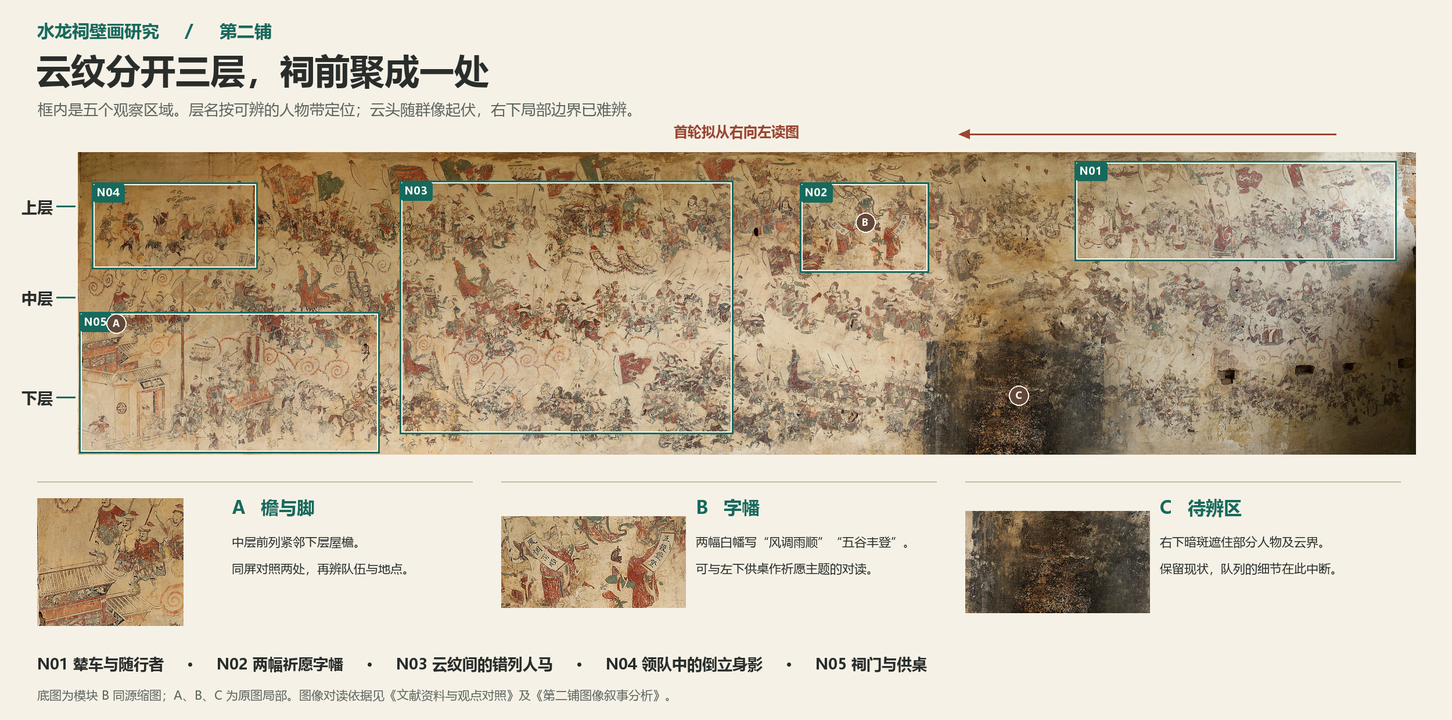
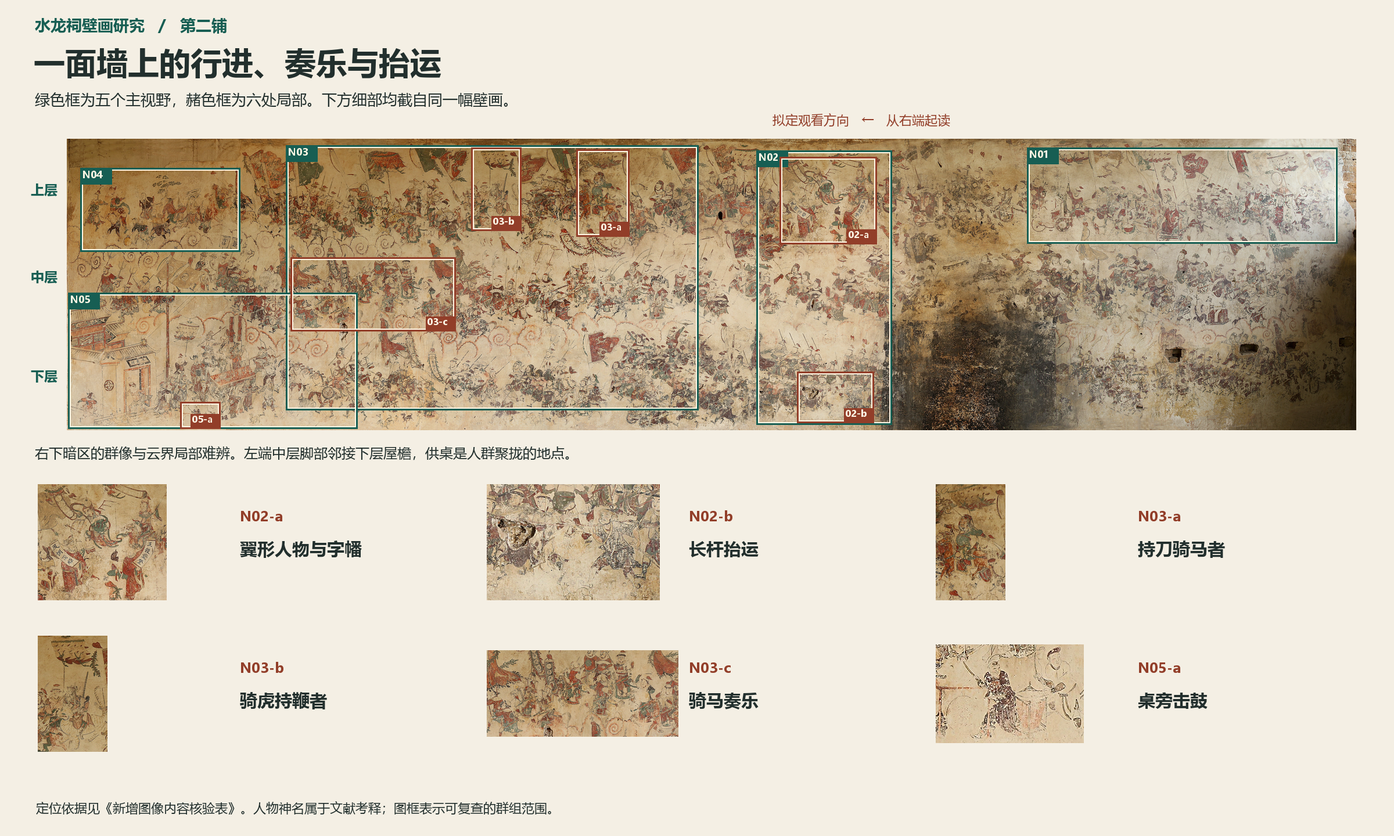
docs: 核对第二铺群像并修订循迹局部取景

diff --git a/docs/research/mural-02-narrative/06_新增图像内容核验表.md b/docs/research/mural-02-narrative/06_新增图像内容核验表.md
@@ -1,0 +1,35 @@
+# 第二铺群像核验｜从论文局部回到壁画
+
+坐标基准为模块B的8192 × 1853全幅，左上为原点。先用论文照片中的持物、坐骑、衣褶及周围残损形状在WebP中找候选区域，再按两边图像尺寸比例裁取17507 × 3960母版复看。尤其核对了骑虎者的前足与尾部、持刀者的绿袖、乐队下缘的破损、抬运者前方的缺损和祠前鼓形。框边是便于观察的取景界限。长杆抬运采用程文图2-18及郑文图3-37两项匹配结果的外扩框。区位与身份分别列级。[完整标注](03_图像组织.png) · [坐标](04_叙事节点坐标.json)
+
+## 证据与采用判断
+
+| 群组、图像位置（像素左上—右下） | 直接观察 | 原文解释、比较及限制 | 证据等级与用途 |
+|---|---|---|---|
+| N02-a 上层翼形人物与字幡，4528,114—5145,669 | 双翼轮廓与两幅白幡同框，可辨两处祈愿词 | 邓昶[1]第116–117页图1标雷公。林妙璇[2]第14页亦定位于两幡之间。彭迪等[7]第116页进一步联系祈雨及门侧形象 | 形态和位置已确认；神名属文献考释；两处同一人跨时出现待核实。次级观察，提示文字如何为形象提供语境 |
+| N02-b 下层长杆抬运，4640,1480—5125,1805 | 悬吊兽身、横杆及后方负重者可辨，前方颜料残缺；紧邻步骑队伍 | 林[2]第15页用“民众”、记两人，第41页称“抬鹿人”，以衣着及斗笠比对平民形象。郑[3]第119页图3-37不定种，编号B310、说明前方难辨。程[4]第26页图2-18为第二铺局部自摄。发现报告[6]第20页则泛称军队抬牲口 | 抬运位置已确认；两人及身份是文献识读，职业与种属待核。次级观察，说明队列内不同人的分工 |
+| N03-a 上层持刀骑马者，3238,66—3572,621 | 绿袍、红面、执长兵、跨马，与周边人物同向 | 邓[1]第116–117页图1指认为关帝；杨、刘[5]第112–114页图3称关公；郑[3]第103页称关元帅B50；林[2]第48–49页对照关公图式。同一人物的神格称谓有别。发现报告[6]第19页谈的是殿内塑像，第20页才谈画中人物 | 图版与本图位置已确认；神名为多文献图像考释，未见可核姓名题记。次级观察，扩展阅读可用“文献辨为关公” |
+| N03-b 上层骑虎者，2569,55—2886,583 | 旗盖下的骑者、上举持物及有条纹的坐骑；虎的轮廓与周围马匹不同 | 邓[1]第116–117页图1据战袍、须、鞭和虎辨为赵公明；杨、刘[5]第112–113页图2用传统赵公明描述比对。林[2]第48–49页联系赵元帅、赵玄坛诸称。郑[3]第101页同组选用骑虎将军的描述，未构成另一实名指认 | 区位与坐骑已确认；神名属有依据的考释。次级观察，与N03-a比较队列如何突出骑者；不由神职推出当天祈财 |
+| N03-c 中层前列骑马奏乐，1421,751—2469,1223 | 横持号状物、举臂击奏、圆形乐器、马头和伴随者同在一列，组下方有缺损 | 林[2]第14页列长短号、锣、镲，第34页说乐器兵靠前、引领队伍。程[4]第26页图2-19以兵服、佩械判断随军仪仗；图2-20是第一铺。郑[3]第110页图3-27为分组线描。发现报告[6]第20页的锣鼓唢呐是中层总体记录，不能逐件套在这组 | 骑马吹奏、击奏已确认；八名演奏者据郑的分组统计，细分器名依作者。次级观察，展示乐手与卫从共享队列，具体曲目和科仪环节待核 |
+| N05-a 左下桌旁击鼓，721,1672—976,1842 | 桌旁两个人物与鼓，站位集中，周边可见桌案及其他参与者 | 程[4]第26页图2-21称两位击鼓乐手，并由朝向、衣着解释为服务砍牛仪式；郑[3]第116页把两位乐师与供桌场面合读 | 区位、器物已确认；仪式分工为文献解释。次级观察，与N03-c比较同是奏乐，位置和参与方式有何差别 |
+| N05 左下祠前，主框8,977—1845,1842 | 牲畜靠近持刀与牵引人物，可见端盘者和桌案。与N02-b相距数个队列 | 龙明盛[8]第113页图1–2将持刀、牵绳与县志比较，指出横木细节的差别；郑[3]第115–117页按供桌周边与参加者分组 | 祠前和队尾为两个独立图像位置，已确认。两兽同一、先运到再宰祭的连续剧情待核。保留主节点 |
+| N01 右上车组，6100,55—8070,665；N04 左上前列，85,185—1100,715 | 车轮、旗盖、侍从突出乘者；前列俯身持锣与倒立者姿态有别 | 陈勤学[9]第115–117页从一组女性图像比对主神，不能套给各车。刘灿姣、杨会娟[10]第53–55页图2、4、5为倒立与持锣者提供比较图；与彭迪等[7]第115页的个别方位名有出入 | 两种组群方式已确认，领队实名依考释。维持两主节点，左上倒立者可衔接图鉴“翻坛张五郎”，其余名号逐人核对 |
+
+**乐队人数如何得到。** 郑富天图3-27的编号B148–159共十二位。作者逐人解释为四人吹长短号（B148–151），四人击鼓、锣、钹等（B154–157）；其余四人持刀或持伞。由其编号得出八名演奏者。三星锣、扁皮鼓等细名需保留作者归属。照片辨识到群体和演奏姿势的把握高于逐件辨器。
+
+**旗号如何使用。** 林妙璇第15页把“三军司令”旗写在下层骑兵的描述中。郑富天第110页在中层乐队写“三军号令”。两条材料分别指向不同层、不同字样；不能从“同层”推出旗就在抬杆旁。本次将其作为文字待逐字比对项，不另设局部框。祠前与下层后段的关联限于围绕祭祀的活动主题。
+
+## 对照来源
+
+1. 邓昶，2019，《湖南江永勾蓝瑶水龙祠壁画的“汉化”特征阐释——兼论瑶汉民族文化的互动及其调适机制》。
+2. 林妙璇，2022，《勾蓝瑶水龙祠壁画神祇图式与绘画表现研究》。正文14、15、34、41、48–49页分别对应PDF第24、25、44、51、58–59页。
+3. 郑富天，2024，《勾蓝瑶寨水龙祠壁画的图像叙事及其功能研究》。正文第110、119页分别对应PDF第118、127页。图3-27是作者编组绘图，非第二份实地摄影记录。
+4. 程旭蕊，2022，《江永勾蓝瑶水龙祠壁画艺术研究》。正文第26页为PDF第35页；同页两铺图像逐一按图题取用。
+5. 杨会娟、刘灿姣，2020，《形式与意义——湖南江永勾蓝瑶水龙祠壁画中的“官方宗教”图像研究》。
+6. 刘灿姣、林伟，2016，《湖南江永水龙祠壁画的发现报告》。
+7. 彭迪、黄佳、陈奕含、成文昊，2025，《湘南勾蓝瑶寨壁画空间叙事结构与数智化修复路径研究》。
+8. 龙明盛，2019，《图像记忆与族群认同——以瑶族水龙祠壁画砍牛图式为例》。
+9. 陈勤学，2021，《从水龙祠壁画看瑶族女神崇拜观的生成逻辑》。
+10. 刘灿姣、杨会娟，2017，《湖南江永勾蓝瑶水龙祠壁画的梅山猖兵考释》。
+
+最初的调查、后来论文的图式比对、编号线描各自回答不同问题。林文把图式与比较材料并列，郑文部分图注明参阅前人图录；本表对同一形象的重复命名保留来源，不将转引累加成确定性。全幅历史观看顺序和科仪全程，见[观点对照](01_文献资料与观点对照.md)。

diff --git a/docs/research/mural-02-narrative/04_叙事节点清单.md b/docs/research/mural-02-narrative/04_叙事节点清单.md
@@ -2,6 +2,10 @@
 
 五个选区各解决一个阅读问题：如何辨认一组人、怎样读到队伍的愿望、三层如何呼应、谁处在队伍前面、场面在哪里聚拢。完整图用于进入与退出，不计入五个节点。右侧暗区作为证据边界保留在全幅内。枢纽在左端，因此左侧设上下两处；反之，大片重复队列只取一处具有清晰层界的宽窗。
 
+## 本轮节点审查
+
+保留N01至N05及其主焦点。N01看乘者与随从，个别辇乘身份尚待对应。N02扩大垂直视野，纳入幡下方抬运。N03向左扩至乐队、向上保留两组骑者；原框截掉乐队前部。N04沿用领队与倒立者，已对图的两位元帅在更右侧。N05增加祠前击鼓，远处抬运另归N02。图中和JSON的六个子框如下；均可选读。
+
 ## 坐标与底图
 
 坐标基准为 `Mural-Exhibition/public/gallery/mural-02-detail.webp`，8192 × 1853。先在原比例分段图上选出群组和邻近云纹，再将裁框套回全幅核对；左端另用母版局部、文献图版复查。原点是左上，右、下递增，右边界与下边界不包含在框内。表内小数为像素位置除以底图宽、高所得。它们描述研究选区，实际相机应按视口适当留出邻景。观察点落在组内，和现有图鉴角色热点各自独立。[结构化坐标](04_叙事节点坐标.json)
@@ -9,8 +13,8 @@
 | 节点 | 像素框，左上 → 右下 | 归一化框，左、上、右、下 | 观察点，像素 |
 |---|---|---|---|
 | N01 辇车与随行者 | 6100, 55 → 8070, 665 | 0.7446, 0.0297, 0.9851, 0.3589 | 7410, 430 |
-| N02 两幅祈愿字幡 | 4420, 185 → 5210, 735 | 0.5396, 0.0998, 0.6360, 0.3967 | 4820, 480 |
-| N03 云纹间的错列人马 | 1970, 175 → 4010, 1725 | 0.2405, 0.0944, 0.4895, 0.9309 | 3060, 960 |
+| N02 两幅祈愿字幡 | 4380, 75 → 5240, 1815 | 0.5347, 0.0405, 0.6396, 0.9795 | 4820, 480 |
+| N03 云纹间的错列人马 | 1390, 40 → 4010, 1725 | 0.1697, 0.0216, 0.4895, 0.9309 | 3060, 960 |
 | N04 领队中的倒立身影 | 85, 185 → 1100, 715 | 0.0104, 0.0998, 0.1343, 0.3859 | 705, 510 |
 | N05 祠门与供桌 | 8, 977 → 1845, 1842 | 0.0010, 0.5273, 0.2252, 0.9941 | 465, 1490 |
 
@@ -28,13 +32,13 @@
 
 ### N02　两幅祈愿字幡
 
-**所在位置与可见内容**　中部偏右的上层。两名着长衣者举白底文字，旁有旗与骑者；两幡彼此倾斜，四字成列。二者之间的距离决定选区宽度。
+**所在位置与可见内容**　中部偏右，主焦点在上层，扩框向下包含同一水平位置的抬运群组。两名着长衣者举白底文字，旁有旗与骑者；两幡彼此倾斜，四字成列。先取两幡同框，再展开同一横坐标下方的长杆抬运。
 
 **叙事作用与关联**　这处文字给队伍的愿望以直接证据。可与N05的供桌回看，比较“写出来的愿望”和“围绕供物展开的动作”。这是跨区主题联系。
 
 **依据与可信程度**　刘灿姣、林伟（2016，第20–21页）；胡彬彬、吴灿（2016，第23页、图5）；彭迪等（2025，第116页）。两幡文字已确认。将上下场景解释为特定祈雨程式仍是文献释读。
 
-**观众文案**　两幅白幡上一幅写着“风调雨顺”，另一幅写着“五谷丰登”。先把这八个字记在心里，到了祠门前再回望这里。
+**观众文案**　两幅白幡上一幅写着“风调雨顺”，另一幅写着“五谷丰登”。先把这八个字记在心里，向下看，有人正用长杆抬运牲畜；到了祠门前再回望这里。
 
 **观看动作**　从车组向左，双幡同框再放大到字可辨。退出局部先恢复上层与云纹的相对位置，再把视野向左下移到人马密处。
 
@@ -46,7 +50,7 @@
 
 **依据与可信程度**　程旭蕊（2022，第30页、图2-27）；林妙璇（2022，第54–56页）；贺景卫、彭迪（2019，第117–119页）。空间错列和相似步态已确认；同一人先后经过三层尚无可靠指认。
 
-**观众文案**　沿一圈云头看看它上方和下方的人。两边都有旗和人马，但队伍的头尾错开了。先看一排，再把目光移到旁边的一排。
+**观众文案**　沿一圈云头看看它上方和下方的人。两边都有旗和人马，但队伍的头尾错开了。看中层骑马的人，有人把号举到嘴边，有人举手击奏；再向上找两组骑乘者。
 
 **观看动作**　保持较宽视野，按需短暂提示一小段云界，先中后上、下。选区向左放宽时，画面从整齐步态过渡到一群动作各异的领队。
 
@@ -70,6 +74,19 @@
 
 **依据与可信程度**　刘灿姣、林伟（2016，第20页）；龙明盛（2019，第113页图1、2）；郑富天（2024，第43、114–117页）；彭迪等（2025，第115页图3）。祠门、供桌、持物与牵引活动已确认；迎候、还愿及赛会是不同层级的解释。具体科仪阶段待核实。
 
-**观众文案**　从中层前列的脚边往下看，屋檐就在下面。门前摆着供桌，有人端着盘子，有人牵着牲畜。再向右看，长队和这处聚集的人群便连在一起了。
+**观众文案**　从中层前列的脚边往下看，屋檐就在下面。门前摆着供桌，有人端盘、牵牲，桌边还有击鼓的人。再向右看，长队和这处聚集的人群便连在一起了。
 
 **观看动作**　从N04向下，先看檐与脚，再看门与桌；允许放大供物或向右回望队伍。末尾回到完整画面，选择图鉴、体感或重读某处。
+
+## 次级观察点资料卡
+
+像素框依次为左、上、右、下；半开边界与主节点相同。证据等级与图号见[核验表](06_新增图像内容核验表.md)。
+
+| 编号与名称 | 像素框 | 局部导读文案 |
+|---|---|---|
+| N02-a 翼形人物与字幡 | 4528, 114, 5145, 669 | 顺着两幅白幡向上看，中间的人物背后伸出双翼。字幡和这个身影占据了同一组画面。 |
+| N02-b 长杆抬运 | 4640, 1480, 5125, 1805 | 顺着横杆看过去，兽身悬在下面。旁边的人骑马或持械，抬运者用肩膀承担重量。 |
+| N03-a 持刀骑马者 | 3238, 66, 3572, 621 | 从绿袍骑者手边找到长刀，再沿马身看身旁的随从。研究者据这些特征把他与关公相联系。 |
+| N03-b 骑虎持鞭者 | 2569, 55, 2886, 583 | 先看坐骑的条纹和长尾，再看骑者举起的手。研究者把这位骑虎者辨为赵公明。 |
+| N03-c 骑马奏乐 | 1421, 751, 2469, 1223 | 找到平伸的长号，再找胸前的鼓。骑马的人边行进边演奏，持伞的人也排在同一组里。 |
+| N05-a 桌旁击鼓 | 721, 1672, 976, 1842 | 把视线移到桌旁，两人正对着鼓。回想刚才骑在马上的乐手，这里的鼓离供桌很近。 |

diff --git a/docs/research/mural-02-narrative/02_第二铺图像叙事分析.md b/docs/research/mural-02-narrative/02_第二铺图像叙事分析.md
@@ -6,9 +6,15 @@
 
 上层右端能辨出车轮、乘者和左右随行者，旗、盖和高举的持物越出人肩，在人群上方形成剪影。几个车乘组合反复出现，轮与盖比脸部更容易从全幅上辨认。到中部偏右，两幅斜举的白底字幡分别可读“风调雨顺”“五谷丰登”。文字使观者获得具体的祈愿内容，也让两位持幡者从同行者中凸显出来。再向左，骑乘与步行相间，至左上领队处，抬臂、俯身和倒立打破先前的重复步态。刘灿姣、林伟记录了多辆辇车，陈勤学进一步讨论其中女性的形貌、侍从与身份。右端一辆车的乘者和另一辆车的乘者应分别核图，不能把女性群像研究的结论分配给每辆车。（刘灿姣、林伟，2016，第20页；陈勤学，2021，第115–117页；郑富天，2024，第103–108页。）
 
+在两幅字幡附近，上层还有翼形人物；向左看，红面绿袍的骑者与骑虎持鞭者分处两组。邓昶（2019，第116–117页图1）分别以雷公、关帝、赵公明释读，后两人还可同杨会娟、刘灿姣（2020，第112–113页图2、3）对照。辨认身份所凭的是脸、衣、兵器与坐骑的组合。把目光稍稍放宽，能看见两位骑者和周围兵将尺度相近，靠伴随者、坐骑和上方仪仗突出地位。程旭蕊（2022，第32页图2-29）也以骑虎者说明神与兵共处队列的画法。上层由一组组随行关系连接起来，个人名称只能说明其中一部分。
+
 中层沿横向延伸得最清楚。几个人错开半个身位，前肩遮后身，骑者高出步行者，长杆和旗面从密集队列中伸出。画面偏左还有举牌、吹奏以及持扇者。若只把他们归为“士兵”，就会漏掉这支队列的两种面貌：成排的兵器和近似的装束使行列整齐，扇、锣鼓、吹奏动作又让人想到出行的仪仗和表演。吴灿把折扇解释为戏曲道具，贺景卫、彭迪通过服装与配饰合观提出军傩解释。现阶段可向观众展示这种并存，把仪式名称放在有出处的扩展阅读里。（吴灿，2017，第121–123页；贺景卫、彭迪，2019，第117–119页。）
 
+中层前段的乐队尤其能说明队伍怎样配合行动。吹号者把长管平举至嘴边，相邻骑者胸前有鼓或金属打击器，旁边另有人持刀、持伞。郑富天（2024，第110页图3-27）标出十二人；依其逐人说明，可数出八名演奏者，另四人承担其他活动。程旭蕊（2022，第26页图2-19）以实地照片对照服饰，把乐手解释为随军仪仗；林妙璇（2022，第14、34页）指出他们位于前列并起引领作用。观者可以从抬手、吹奏和骑行的并置想象队伍的节奏，具体曲调、声响和科仪时刻无从由壁画还原。
+
 下层右部有清晰度骤降的大片暗区，右缘亦见孔洞。在保存较清楚的中段，步行、骑乘、旗帜继续出现。到左部，能辨出牲畜、牵引者、端持器物者、桌面陈设，以及有门额和重重屋檐的建筑。桌旁有些人朝向与主队不同，手、身躯和器物围着桌案排开。这种局部反向恰好帮助辨认场面的变化。龙明盛把庙前牵牛持刀的局部与地方记录比较，指出文献所记横木在画中没有出现。可见的持刀、牵绳属于动作线索，仪式的完整做法需另有材料。（刘灿姣、林伟，2016，第20页；龙明盛，2019，第113页图1、2；彭迪等，2025，第115页图3。）
+
+沿下层从暗区向左，先遇到一组与周围持械者动作不同的人。一根横杆把抬运者与悬挂的兽身联系起来；后方人物的负重姿态尚可对读，前方残损。林妙璇（第15页）记两名民众抬牲畜，与持旗骑兵、成列步兵共处下层；作者在第41页讨论戴斗笠的“抬鹿人”。郑富天（第119页图3-37）用“野兽”及“牲畜”，并说明前方人物难辨。这里能落实的是共同负重的行动和队列内的分工，动物种属与人物职业尚难确定。再向左到祠前才出现牵引与持刀者，桌旁另有一对击鼓者（程旭蕊，第26页图2-21）。这两处牲畜场景的持物、动作和位置均不同，无法借镜头移动认定同一头牲畜从队尾到达桌前。
 
 ## 二、三层为什么能放在同一幅画里
 
@@ -26,6 +32,8 @@
 ## 三、时间能读到什么程度
 
 一幅画不用把人物画两次，也能让人感到动作正在发生。抬起的脚给尚未迈完的一步留下余地，牵引的牲畜、紧张的绳与持刀人的姿势让人预期下一刻。李济民甚至把祠旁炮手与一倒一立的火炮解释成已燃、待燃的时间差（2025，第120页图11）。这是一个可以检验到器物位置的**局部先后假说**；本次未把它设为停靠点，须先在项目原图中逐一核定炮具。龙迪勇所谓“空间的时间化”，在这里首先是由姿态、物的位置和上下文恢复可能的动作过程。（龙迪勇，2007，第39页及PDF第6–7页。）
+
+两处乐手也提示了观看时间与事件时间的差别。先看中层骑马吹奏，再看左下桌旁击鼓，观众会发现相似动作可以组织行进，也可以把目光引向静止的场所。画面允许两次观察彼此补充，演奏之间的先后、是否同奏一曲则缺少证据。抬运与牵引同理。观者通过换取景恢复各个动作的语境，这使龙迪勇的“空间的时间化”可以落实为可检验的读图任务。
 
 全幅需要另一种论证。郑富天以三层容纳不同时刻，归为“纲要式叙事”，把从领队到祠前读成时间的流动（2024，第86–87、120页）。这能解释为什么供桌有收束感。问题在于相似的服饰和兵器出现多次，只能说明队伍的共性；画面没有据此锁定同一人连续经历三段事件。龙迪勇另论共同主题可以把不同场景并置（2011，第88–89页），为此处提供另一种读法：神祇、仪仗和祠前活动在一幅画里共同说明祭祀场面，观者自行建立关系。**本报告把主题并置、行进动势和局部的动作时间作为三种不同强度的证据。** 是否把全幅读成有固定先后的故事，留作可比较的学术观点。
 

diff --git a/docs/research/mural-02-narrative/05_循迹叙事交互规划.md b/docs/research/mural-02-narrative/05_循迹叙事交互规划.md
@@ -14,16 +14,20 @@
 
 林妙璇从左上领队向右分析开合，郑富天亦曾分层逐组讲述。因此，在逐件辨认上层人物时，局部逐层阅读有充分理由。首轮选择B，是因为它在一次横向移动中保留三处重要关系：辇与随从、云纹两边的队列、屋檐与前列。这个推荐仍需用原型检验。
 
+## 五处主停靠与六处可选局部
+
+方案A保留主停靠，将N02的视野从上层字幡向下扩到抬运者；将N03向左扩至乐队，向上纳入两组骑者；N05保持全框，另给桌旁鼓手一个局部。方案B可把乐队单列第六站，但观众要另走一次与N03重合的中层区域；把抬运单列也会拆开同一水平位置的上下参照。两处都能在原站点的扩框内完成独立观察，推荐A。各站先显示全组，局部由观众选择，关闭后恢复本站视野，继续向左。
+
 ## 每一次停靠要完成的事
 
 | 步骤 | 从哪里进入，怎样取景 | 讲什么、比较什么 | 离开时的理解与接续 |
 |---|---|---|---|
 | 全幅认识 | 从第二铺入口可选“循迹叙事”；全幅完整适配，左右端同时出现 | 标出左下建筑和右端车组的位置，先让观众看长卷比例 | 对画面两端有定位。选择“从右侧开始”，或直接选图鉴、体感 |
 | N01 辇车与随行者 | 全幅至右上，镜头先含相邻车，再由观众选择放大车轮、乘者 | 同组的人如何围着一辆车排列 | 学会识别一组；顺着相邻车组的方向寻找白幡 |
-| N02 两幅祈愿字幡 | 沿上层左移，两幡同框，必要时局部放大至文字可读 | 两条文字合起来说明何种愿望，边上仍能看到队伍 | 带着祈愿词继续看；缩回上层与云头的交界 |
-| N03 云纹间的错列人马 | 向左并放宽视野至三层；停驻后允许上、下对照 | 追一小段云纹，比较两侧旗杆和人群的高低、错位 | 理解同幅多层人马的组织；随中层前进方向再移向左上 |
+| N02 两幅祈愿字幡 | 两幡同框读字，可看幡间翼形人物N02-a，再退宽并向下看长杆抬运N02-b | 两条文字合起来说明何种愿望，边上仍能看到队伍 | 记住队尾负重的姿势与位置；退宽后向左 |
+| N03 云纹间的错列人马 | 向左并放宽视野至三层；停驻后允许上、下对照 | 从右向左任选上层持刀骑者N03-a、骑虎者N03-b，再看中层乐队N03-c；以云界比较骑乘、奏乐与执械 | 理解同幅多层人马的组织；随中层前进方向再移向左上 |
 | N04 领队中的倒立身影 | 到左上先看整组，再按需放大倒立者及旁边持锣者 | 对照中段重复的步态与前列各异的姿势 | 找到队伍前端；可反向沿上层回看；继续时退至能同时看到屋檐的视野 |
-| N05 祠门与供桌 | 左端就地向下，先含中层脚与屋檐，后聚焦门、桌及两侧人群 | 先找地点，再比较端持、牵引和朝向。可唤回双幡局部与全幅位置 | 将前面的队列与祠前聚集关联起来；选择“回到全幅” |
+| N05 祠门与供桌 | 左端就地向下，先含中层脚与屋檐，后聚焦门、桌及两侧人群 | 先找地点，再比较端持、牵引和朝向。看桌旁鼓手N05-a，可用并排局部回顾中层乐手，或在全幅定位远处抬运 | 将前面的队列与祠前聚集关联起来；选择“回到全幅” |
 | 全幅归纳 | 恢复整图；可点任一已看区域 | 一句回顾“刚才看到的车队、祈愿字幡与祠前供桌，都在这一面墙上” | 自主重读、转图鉴或转体感；不以走完节点解锁功能 |
 
 ## “空间的时间化”转译表
@@ -50,6 +54,8 @@
 | 体感 B03 | 怎样用已有体感方式进一步观察人物？ | 通过现有入口进入人物舞台、驻留与资料展开。摄像头由原体感流程按需启动，循迹本身只需普通浏览操作 |
 
 模块A的三幕回望已经提到队伍走向供桌与祈愿文字。这里用“请在第二铺里找到它”的图像任务接续，避免再次讲解五铺及整个仪式。B01入口保留直接选择图鉴或体感的路径；两条既有路径均无需先经过循迹。
+
+当前本地图鉴人物目录已有“翻坛张五郎”“梅山猖兵”及五猖等资料，N04可在核对具体人物后衔接。关公、赵公明、骑马乐队和抬运者此次均未找到同名图鉴条目，局部说明在循迹内即可读完。体感继续经既有选择入口进入，摄像头和人物资料由原流程管理。
 
 ## 留给独立原型的三个问题
 

diff --git a/docs/research/mural-02-narrative/README.md b/docs/research/mural-02-narrative/README.md
@@ -6,9 +6,14 @@
 |---|---|
 | [01 文献资料与观点对照](01_文献资料与观点对照.md) | 作者、页码、题名、图版与重要分歧。列出本地50份资料的阅读或筛查范围 |
 | [02 第二铺图像叙事分析](02_第二铺图像叙事分析.md) | 三层为何在同幅出现，队列怎样组织，空间关系可以支持什么时间解释 |
-| [03 图像组织](03_图像组织.png) · [03 观看路径](03_观看路径.png) | 前者在完整画面上标层、选区和疑点，附三处局部；后者只画拟定的数字导读路线 |
+| [03 图像组织](03_图像组织.png) · [03 观看路径](03_观看路径.png) | 前者在完整画面上标层、选区和疑点，附六处局部；后者只画拟定的数字导读路线 |
 | [04 叙事节点清单](04_叙事节点清单.md) · [坐标草案](04_叙事节点坐标.json) | 五处观察范围、文献、可信程度、观众文案和设计动作。框坐标可用于独立原型 |
 | [05 循迹叙事交互规划](05_循迹叙事交互规划.md) | 逐层与横向方案比较，每次停靠与衔接，理论如何决定视野，如何接入现有探索 |
+| [06 新增图像内容核验表](06_新增图像内容核验表.md) | 六处局部与文献图版、证据等级、人数算法及仍待分辨的细节 |
+
+## 本轮修订
+
+基线310b915确定了群组、文字、错列人马、领队与祠前地点五个观察任务。上一版只泛写中层吹奏和下层牲畜，遗漏队尾抬运与祠前牵牲的空间区别，也未把两位上层骑者对应到具体图版。此次在既有三层与五站结构中增加六处可选观察：N02的幡间翼形人物、下层抬运；N03的持刀骑者、骑虎者、中层骑马乐队；N05的桌旁鼓手。N02与N03扩大取景，主焦点和主站ID沿用。两位骑者分别有文献辨为关公、赵公明，观众首先看姿态、持物、坐骑及其与队列的关系。待人工核定的重点是乐器细名、动物种属、残损抬运者和旗号逐字释读。
 
 ## 研究结论与建议
 

diff --git a/docs/research/mural-02-narrative/01_文献资料与观点对照.md b/docs/research/mural-02-narrative/01_文献资料与观点对照.md
@@ -35,6 +35,12 @@
 | 折扇、牛与局部动作 | 吴灿第121–123页与贺景卫、彭迪第117–119页均重视表演性，后者联系军傩。龙明盛第113–114页则以图像、地方记录讨论砍牛仪式和族群记忆。李济民第119–120页将献牲、信炮放入当地赛会材料中。 | 动作、用具和局部先后线索均可讨论；不能据牵绳的姿势补出随后发生的事，也不能将文献举出的所有礼俗串成全幅的固定程序。 |
 | 绘制年代会不会改变路线？ | 发现报告第19页以地仗、砖体及服饰主张明洪武；廖方容第22–23页据辫发、红缨帽、火器等主张清早期。 | 本阶段不作断代。镜头落点依照图中可辨的形象与构图。 |
 
+## 第二铺局部图版的复核
+
+林妙璇第14–15页先后记述中层骑马乐手、下层后段两名抬运者与同层骑步兵；第34页说明乐队靠前、具有引领作用，第41页用斗笠和服装讨论民众形象。第48–49页另以道教神像与壁画相对读，说明关帝、赵元帅的命名。郑富天第110页图3-27是作者编号绘图，第119页图3-37是残存抬运者局部。程旭蕊第26页图2-18、19、21署为作者自摄，分别对应第二铺民众、行进乐手与祠前乐手；同页图2-17、20属于第一铺。
+
+邓昶第116–117页正文限定第二铺上界，图1把赵公明、关帝、雷公并列。杨会娟、刘灿姣第112–114页图2、3用坐骑、持物和装束比较财神、关公图式。发现报告第19页引述当地人谈殿内关公塑像，第20页才进入第二铺画中护法元帅。多篇论文讨论同一幅画，文献数量不能当作多次独立的实物鉴定。[逐项证据及对应位置](06_新增图像内容核验表.md)
+
 ## 理论、方法与开题报告
 
 | 来源 | 阅读位置与用途 |
